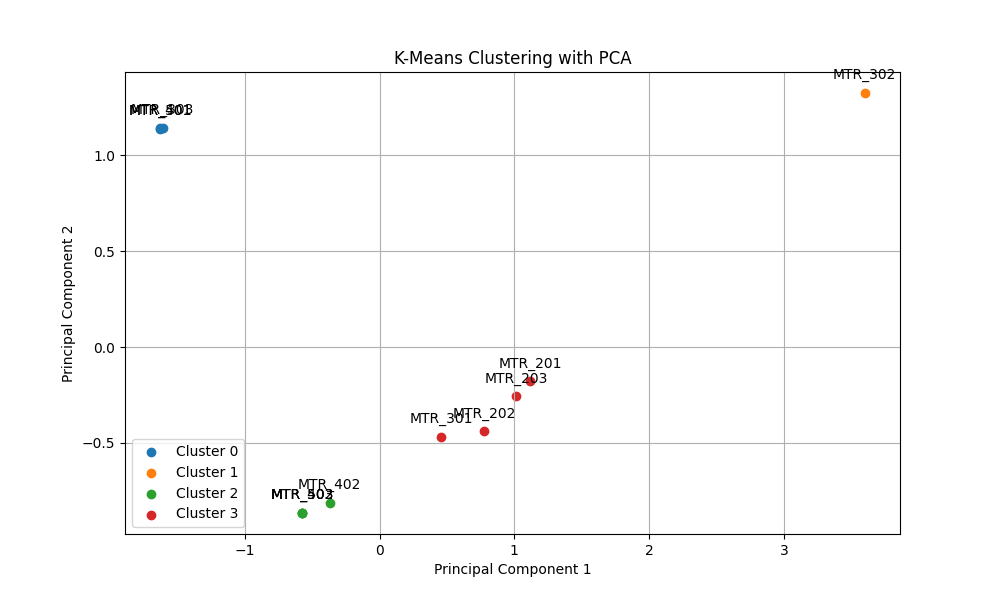
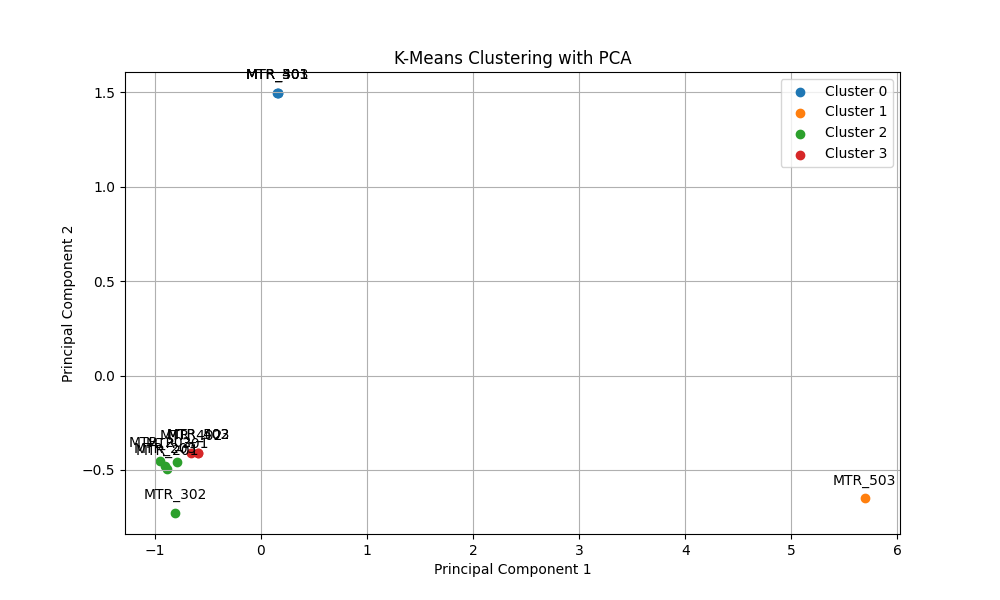
adjustements

diff --git a/web_site_app/env/templates/Equipement_monitoring.html b/web_site_app/env/templates/Equipement_monitoring.html
@@ -226,7 +226,7 @@
       <div class="container-fluid py-1 px-3">
         <nav aria-label="breadcrumb">
           <ol class="breadcrumb bg-transparent mb-0 pb-0 pt-1 px-0 me-sm-6 me-5">
-            <li class="breadcrumb-item text-sm"><a class="opacity-5 text-dark" href="javascript:;">Pages</a></li>
+            <li class="breadcrumb-item text-sm"><a class="opacity-5 text-dark" href="javascript:;">Home</a></li>
             <li class="breadcrumb-item text-sm text-dark active" aria-current="page">Equipement Monitoring</li>
           </ol>
           <h6 class="font-weight-bolder mb-0">Equipement</h6>
@@ -423,68 +423,83 @@
               </div>
             </div>
           </div>
-         
-          <div class="card mt-4">
+
+          <div class="row mt-4">
+
+            <div class="col-lg-6 mb-lg-0 mb-4">
+
+          <div class="card h-100">
             <div class="card-header pb-0 p-3">
                 <div class="row">
                     <div class="col-6 d-flex align-items-center">
                         <h5 class="mb-0">Add a new meter</h5>
                     </div>
-                    
                 </div>
             </div>
-           <br>
-            <div class="card-body p-3">
-              <form action="/add_meter" method="post" id="meter-form" role="form">
-                <div class="row">
+            <div class="card-body p-3 d-flex flex-column">
+                <form action="/add_meter" method="post" id="meter-form" role="form">
                     <!-- Meter Code -->
-                    <div class="col-md-6 mb-md-0 mb-4">
-                        <div class="card card-body border card-plain border-radius-lg d-flex align-items-center flex-row">
-                            <h6 style="margin-right: 15px;">Meter Code</h6>
-                            <div class="mb-3" style="margin-bottom: 5px;">
-                                <input type="text" class="form-control" id="meter_code" name="meter_code" placeholder="Meter Code" aria-label="Meter Code">
-                            </div>
-                        </div>
+                    <div class="mb-3">
+                        <h6>Meter Code</h6>
+                        <input type="text" class="form-control" id="meter_code" name="meter_code" placeholder="Meter Code" aria-label="Meter Code">
                     </div>
                     <!-- Date -->
-                    <div class="col-md-6">
-                        <div class="card card-body border card-plain border-radius-lg d-flex align-items-center flex-row">
-                            <h6 style="margin-right: 15px;">Date</h6>
-                            <div class="mb-3" style="margin-bottom: 5px;">
-                                <input type="date" class="form-control" id="folio_number" name="folio_number" placeholder="Date" aria-label="Date">
-                            </div>
-                        </div>
+                    <div class="mb-3">
+                        <h6>Date</h6>
+                        <input type="date" class="form-control" id="folio_number" name="folio_number" placeholder="Date" aria-label="Date">
                     </div>
-                    
                     <!-- Quantity Difference -->
-                    <div class="col-md-6">
-                      <br>
-                        <div class="card card-body border card-plain border-radius-lg d-flex align-items-center flex-row">
-                            <h6 style="margin-right: 15px;">Quantity Difference</h6>
-                            <div class="mb-3" style="margin-bottom: 5px;">
-                                <input type="number" class="form-control" id="gross_unaccounted" name="gross_unaccounted" placeholder="Quantity Difference" aria-label="Quantity Difference">
-                            </div>
-                        </div>
+                    <div class="mb-3">
+                        <h6>Quantity Difference</h6>
+                        <input type="number" class="form-control" id="gross_unaccounted" name="gross_unaccounted" placeholder="Quantity Difference" aria-label="Quantity Difference">
                     </div>
-                </div>
-                <br>
-                <!-- Submit Button -->
-
-                <!-- Your button with Font Awesome icon -->
-                <button class="btn bg-gradient-primary mb-0" type="submit" value="submit">
-                 <i class="fas fa-plus"></i>&nbsp;&nbsp;Add New Meter
-                </button>
-
-              
-            </form>
-            
-            
-            
-              {{ message_meter_add }}
-          </div>
-      
+                    <!-- Submit Button -->
+                    <button class="btn bg-gradient-primary mb-0" type="submit" value="submit">
+                        <i class="fas fa-plus"></i>&nbsp;&nbsp;Add New Meter
+                    </button>
+                </form>
+                {{ message_meter_add }}
+            </div>
         </div>
+      </div>
+        
 
+      <div class="col-lg-6">
+        <div class="card h-100">
+          <div class="card-header pb-0 p-3">
+              <div class="row">
+                  <div class="col-6 d-flex align-items-center">
+                      <h5 class="mb-0">Add a new Injector</h5>
+                  </div>
+              </div>
+          </div>
+          <div class="card-body p-3 d-flex flex-column">
+              <form action="/add_injector" method="post" id="injector-form" role="form">
+                  <!-- Meter Code -->
+                  <div class="mb-3">
+                      <h6>Injector Code</h6>
+                      <input type="text" class="form-control" id="injector_code" name="injector_code" placeholder="Injector Code" aria-label="Injector Code">
+                  </div>
+                  <!-- Date -->
+                  <div class="mb-3">
+                      <h6>Date</h6>
+                      <input type="date" class="form-control" id="folio_number_inj" name="folio_number_inj" placeholder="Date" aria-label="Date">
+                  </div>
+                  <!-- Quantity Difference -->
+                  <div class="mb-3">
+                      <h6>Quantity Difference</h6>
+                      <input type="number" class="form-control" id="frac_unaccounted" name="frac_unaccounted" placeholder="Quantity Difference" aria-label="Quantity Difference">
+                  </div>
+                  <!-- Submit Button -->
+                  <button class="btn bg-gradient-primary mb-0" type="submit" value="submit">
+                      <i class="fas fa-plus"></i>&nbsp;&nbsp;Add New Injector
+                  </button>
+              </form>
+              {{ message_injector_add }}
+          </div>
+      </div>
+      </div>
+    </div>
          <br>
        
         
@@ -599,7 +614,7 @@
                               <td>
                                   <div class="d-flex px-2 py-1">
                                       <div>
-                                          <img src="{{ url_for('static', filename='img/injector.png') }}" class="avatar avatar-equip me-3" alt="user6">
+                                          <img src="{{ url_for('static', filename='img/tank.png') }}" class="avatar avatar-equip me-3" alt="user6">
                                       </div>
                                       <div class="d-flex flex-column justify-content-center">
                                           <!-- Display the meter code -->
@@ -627,9 +642,9 @@
                               <td class="align-middle text-center text-sm">
                                   <!-- Display the status based on cluster label -->
                                   {% if cluster_label == 'Cluster 0'%}
-                                      <p class="badge badge-sm bg-gradient-success">Potential Theft</p>
+                                      <p class="badge badge-sm bg-gradient-warning">Potential Theft</p>
                                   {% elif cluster_label == 'Cluster 1' %}
-                                      <p class="badge badge-sm bg-gradient-warning">Normal behaviour</p>
+                                      <p class="badge badge-sm bg-gradient-success">Normal behaviour</p>
                                   {% elif cluster_label == 'Cluster 2' %}
                                       <p class="badge badge-sm bg-gradient-yellow">Old Theft</p>
                                   {% elif cluster_label == 'Cluster 3' %}
@@ -658,31 +673,9 @@
         <div class="container-fluid">
           <div class="row align-items-center justify-content-lg-between">
             <div class="col-lg-6 mb-lg-0 mb-4">
-              <div class="copyright text-center text-sm text-muted text-lg-start">
-                © <script>
-                  document.write(new Date().getFullYear())
-                </script>,
-                made with <i class="fa fa-heart"></i> by
-                <a href="https://www.creative-tim.com" class="font-weight-bold" target="_blank">Creative Tim</a>
-                for a better web.
-              </div>
+              
             </div>
-            <div class="col-lg-6">
-              <ul class="nav nav-footer justify-content-center justify-content-lg-end">
-                <li class="nav-item">
-                  <a href="https://www.creative-tim.com" class="nav-link text-muted" target="_blank">Creative Tim</a>
-                </li>
-                <li class="nav-item">
-                  <a href="https://www.creative-tim.com/presentation" class="nav-link text-muted" target="_blank">About Us</a>
-                </li>
-                <li class="nav-item">
-                  <a href="https://creative-tim.com/blog" class="nav-link text-muted" target="_blank">Blog</a>
-                </li>
-                <li class="nav-item">
-                  <a href="https://www.creative-tim.com/license" class="nav-link pe-0 text-muted" target="_blank">License</a>
-                </li>
-              </ul>
-            </div>
+            
           </div>
         </div>
       </footer>

diff --git a/web_site_app/env/static/css/soft-ui-dashboard.css b/web_site_app/env/static/css/soft-ui-dashboard.css
@@ -8728,7 +8728,9 @@ fieldset:disabled .btn {
 .mt-4 {
   margin-top: 1.5rem !important;
 }
-
+.mR-4 {
+  margin-right: 30rem !important;
+}
 .mt-5 {
   margin-top: 3rem !important;
 }

diff --git a/web_site_app/env/equipement.py b/web_site_app/env/equipement.py
@@ -113,8 +113,11 @@ def cluster_injector_data(merged_injector_data):
 
     test_merged_injector = merged_injector_data[['INJECTOR_CODE','FOLIO_NUMBER','FRAC_UNACCOUNTED']]
     # Convert data types
-    test_merged_injector['FOLIO_NUMBER'] = pd.to_datetime(test_merged_injector['FOLIO_NUMBER'])
-    
+    test_merged_injector.loc[:, 'FOLIO_NUMBER'] = pd.to_datetime(test_merged_injector['FOLIO_NUMBER'])
+    test_merged_injector.loc[:, 'FRAC_UNACCOUNTED'] = test_merged_injector['FRAC_UNACCOUNTED'].astype(int)
+
+    test_merged_injector = test_merged_injector.sort_values(by ='INJECTOR_CODE')
+    test_merged_injector.reset_index(inplace=True)
 
     # Group by 'INJECTOR_CODE'
     grouped_injector = test_merged_injector.groupby('INJECTOR_CODE')
@@ -125,26 +128,11 @@ def cluster_injector_data(merged_injector_data):
 
     # Iterate over groups
     for injector_code, group_data in grouped_injector:
-        
         # Find the row with the maximum FOLIO_NUMBER where FRAC_UNACCOUNTED is greater than 20 or less than -20
         filtered_group_data = group_data[(group_data['FRAC_UNACCOUNTED'] > 20) | (group_data['FRAC_UNACCOUNTED'] < -20)]
         if not filtered_group_data.empty:
            max_folio_row_inj = filtered_group_data['FOLIO_NUMBER'].idxmax()
-    
-           timestamp_str = str(group_data.loc[max_folio_row_inj, 'FOLIO_NUMBER'])
-
-           timestamp = timestamp_str[-8:]
-
-           year = timestamp[:4]
-           month = timestamp[4:6]
-           day = timestamp[6:]
- 
-           formatted_date_str = f"{year}-{month}-{day}"
-
-
-           last_non_zero_date = datetime.strptime(formatted_date_str, "%Y-%m-%d")
- 
-           days_since_last_non_zero = (datetime.now() - last_non_zero_date).days
+           days_since_last_non_zero = (datetime.now() - group_data.loc[max_folio_row_inj, 'FOLIO_NUMBER']).days
     
 
            # Calculate successive non-zero count and sum

diff --git a/web_site_app/env/app.py b/web_site_app/env/app.py
@@ -97,7 +97,39 @@ def add_meter():
 
     return redirect(url_for('equipement_monitoring', message_meter_add=message))
     
+@app.route('/add_injector', methods=['POST'])
+def add_injector():
+    injector_code = request.form['injector_code']
+    folio_number = request.form['folio_number_inj']
+    frac_unaccounted = request.form['frac_unaccounted']
     
+
+    # Parse the original date string
+    original_date = datetime.strptime(folio_number, "%Y-%m-%d")
+
+    # Format the date as "01/01/2024"
+    formatted_date_str = original_date.strftime("%m/%d/%Y")
+    
+    # Create a dictionary representing the meter data
+    injector_data = {
+        'INJECTOR_CODE': injector_code,
+        'FOLIO_NUMBER': formatted_date_str,  # Use the formatted date
+        'FRAC_UNACCOUNTED': int(frac_unaccounted)
+    }
+    
+    try:
+        # Insert the meter data into the MongoDB collection
+        injector_collection.insert_one(injector_data)
+        
+        message = 'Injector added successfully!'
+        #flash('Meter added successfully!', 'success')
+    except Exception as e:
+        message = 'error injector not added'
+        #flash(f'Error: {str(e)}', 'danger')
+
+    return redirect(url_for('equipement_monitoring', message_injector_add=message))
+
+
 @app.route('/delivery_management')
 def delivery_management():
    return render_template('Delivery_management.html')
